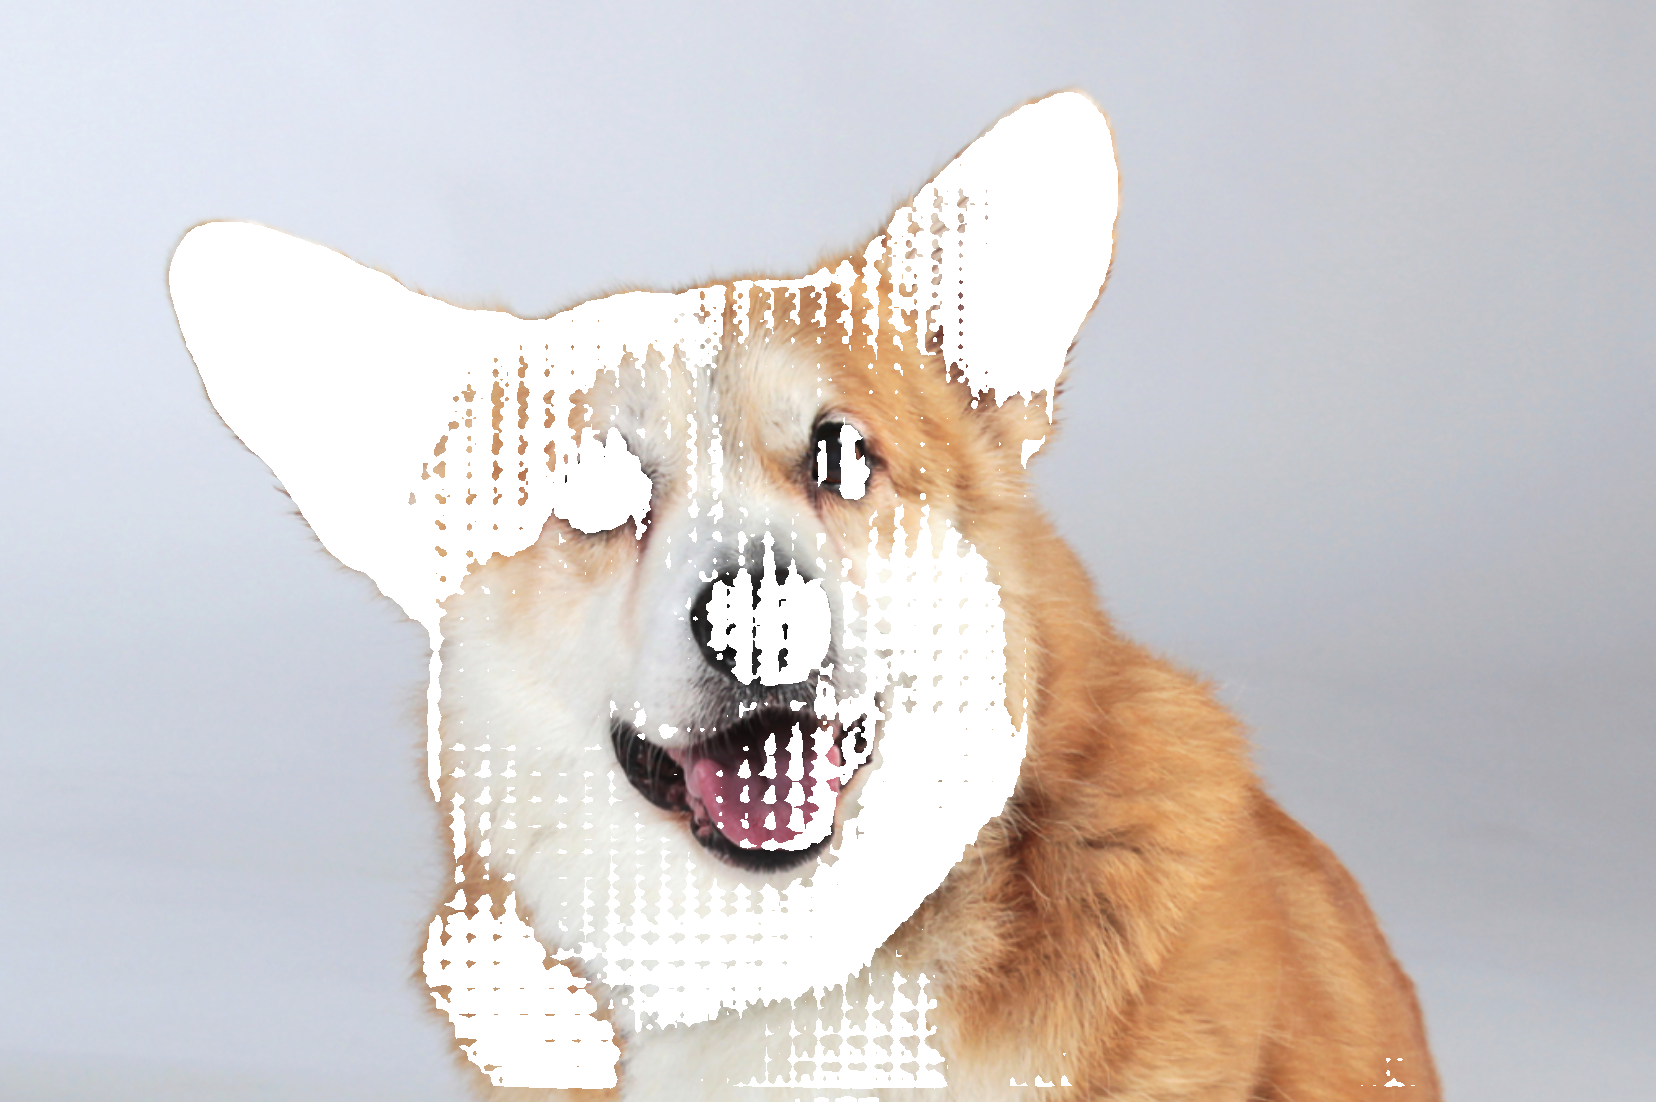
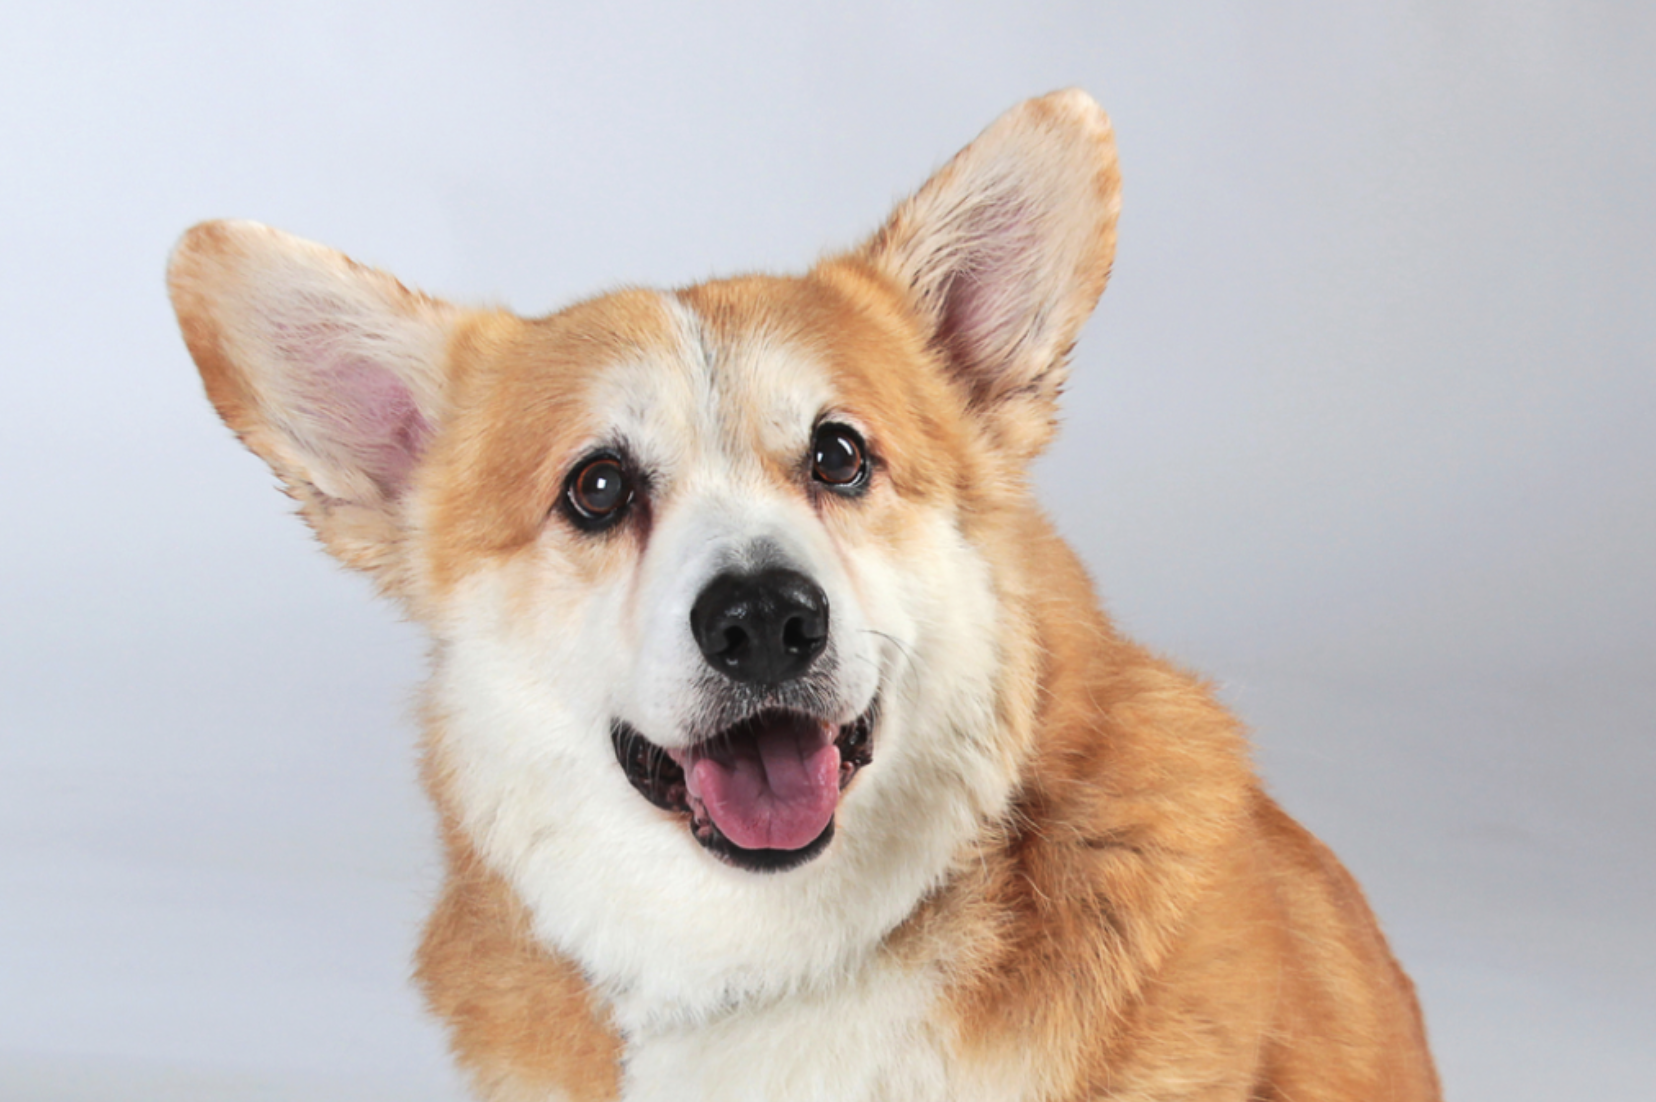
1114 commit

diff --git a/ocr_app/static/img.js b/ocr_app/static/img.js
@@ -3,8 +3,11 @@ const preview = document.getElementById('preview');
 const progress = document.getElementById('progress');
 const loadingText = document.getElementById('loadingText');
 const bar = document.getElementById('bar');
-const resultDiv = document.getElementById('result');
 
+let previewImg = null;
+let uploadedFilename = null;
+
+// 1⃣ 이미지 업로드 → /sam/upload
 form.addEventListener('submit', async (e) => {
     e.preventDefault();
     const fileInput = document.getElementById('file-input');
@@ -15,41 +18,89 @@ form.addEventListener('submit', async (e) => {
 
     // 썸네일 표시
     const reader = new FileReader();
-    reader.onload = e => preview.innerHTML = `<img id="preview-img" src="${e.target.result}" width="200">`;
+    reader.onload = e => {
+        preview.innerHTML = `<img id="preview-img" src="${e.target.result}" width="300" style="cursor:pointer;">`;
+        previewImg = document.getElementById("preview-img");
+        previewImg.addEventListener('click', handleImageClick);
+    };
     reader.readAsDataURL(fileInput.files[0]);
+
+    try {
+        const res = await fetch('/sam/upload', { method: 'POST', body: formData });
+        const data = await res.json();
+        if (!data.success) throw new Error("업로드 실패");
+
+        uploadedFilename = data.filename;
+    } catch (err) {
+        alert("업로드 오류: " + err.message);
+    }
+});
+
+
+// 2⃣ 사용자가 클릭 → /sam/segment 호출
+async function handleImageClick(event) {
+    if (!previewImg) return;
+
+    const rect = previewImg.getBoundingClientRect();
+    const x = event.clientX - rect.left;
+    const y = event.clientY - rect.top;
+
+    const points = [[Math.floor(x), Math.floor(y)]];
+    const labels = [1]; // 클릭한 객체 분리
 
     // 진행바 표시
     progress.style.display = 'block';
-    bar.style.width = '0%';
-    loadingText.textContent = '배경 제거 중... 0%';
     let percent = 0;
+    bar.style.width = '0%';
+    loadingText.textContent = '분할 중... 0%';
     const fakeProgress = setInterval(() => {
         percent += Math.random() * 10;
         if (percent >= 90) percent = 90;
         bar.style.width = percent + '%';
-        loadingText.textContent = `배경 제거 중... ${Math.floor(percent)}%`;
-    }, 600);
+        loadingText.textContent = `분할 중... ${Math.floor(percent)}%`;
+    }, 300);
 
     try {
-        // 서버에 업로드 후 JSON 받기
-        const res = await fetch('/sam/upload', { method: 'POST', body: formData });
-        if (!res.ok) throw new Error("서버 처리 중 오류 발생");
+        const res = await fetch('/sam/segment', {
+            method: 'POST',
+            headers: { 'Content-Type': 'application/json' },
+            body: JSON.stringify({ points, labels })
+        });
+        if (!res.ok) throw new Error("서버 분할 오류");
 
-        const data = await res.json(); // <-- 여기서 JSON으로 받아야 함
+        const blob = await res.blob();
+        const url = URL.createObjectURL(blob);
+
         clearInterval(fakeProgress);
         bar.style.width = '100%';
         loadingText.textContent = '완료! 100%';
 
-        // 썸네일 이미지를 변환된 이미지로 교체
-        const previewImg = document.getElementById('preview-img');
-        if (previewImg) {
-            previewImg.src = data.result_url;
-            // previewImg.width = 400; // 필요하면 크기 조절
-        }
+        previewImg.src = url;
         progress.style.display = 'none';
     } catch (err) {
         clearInterval(fakeProgress);
-        alert("오류: " + err.message);
         progress.style.display = 'none';
+        alert("오류: " + err.message);
+    }
+}
+
+
+
+// 3⃣ 저장 버튼 → /sam/save_final 호출
+saveBtn.addEventListener('click', async () => {
+    if (!uploadedFilename) return alert("저장할 이미지가 없습니다.");
+
+    try {
+        const res = await fetch('/sam/save_final', {
+            method: 'POST',
+            headers: { 'Content-Type': 'application/json' },
+            body: JSON.stringify({ filename: uploadedFilename })
+        });
+        const data = await res.json();
+        if (!data.success) throw new Error("저장 실패");
+
+        alert("저장 완료! URL: " + data.saved_url);
+    } catch (err) {
+        alert("저장 오류: " + err.message);
     }
 });

diff --git a/ocr_app/templates/service/img.html b/ocr_app/templates/service/img.html
@@ -33,6 +33,7 @@
         <div class="form-top">
             <input type="file" id="file-input" name="file" accept="image/*" required>
             <button class="upload-btn" type="submit">업로드</button>
+            <button type="button" id="save-btn">저장</button>
         </div>
         <div id="preview"></div>
     </form>

diff --git a/ocr_app/sam.py b/ocr_app/sam.py
@@ -3,41 +3,57 @@ import cv2
 import numpy as np
 import os
 
+class SAMService:
+    def __init__(self):
+        overrides = dict(
+            conf=0.25,
+            task="segment",
+            mode="predict",
+            imgsz=1024,
+            model="sam_b.pt"
+        )
+        self.predictor = SAMPredictor(overrides=overrides)
+        self.current_image = None
+        self.current_mask = None
 
+    # 이미지 로드
+    def load_image(self, image_path):
+        img_bgr = cv2.imread(image_path)
+        if img_bgr is None:
+            raise ValueError(f"이미지를 읽을 수 없습니다: {image_path}")
 
-def remove_background_with_sam_and_grabcut(image_path, output_path_grabcut,
-                                           output_path_smoothed, output_path_adjusted,
-                                           sam_point, sam_label, blur_kernel_size=(5,5),
-                                           transparency_factor=0.7):
-    # SAM Predictor 초기화 (요청 시점에)
-    overrides = dict(conf=0.25, task="segment", mode="predict", imgsz=1024, model="mobile_sam.pt")
-    predictor = SAMPredictor(overrides=overrides)
-    image_bgr = cv2.imread(image_path)
-    if image_bgr is None:
-        raise ValueError(f"이미지를 읽을 수 없습니다: {image_path}")
+        self.current_image = img_bgr
+        img_rgb = cv2.cvtColor(img_bgr, cv2.COLOR_BGR2RGB)
+        self.predictor.set_image(img_rgb)
 
-    image_rgb = cv2.cvtColor(image_bgr, cv2.COLOR_BGR2RGB)
-    predictor.set_image(image_rgb)
+    # 클릭 기반 SAM segmentation
+    def segment_from_click(self, points, labels):
+        points = np.array(points)
+        labels = np.array(labels)
 
-    input_points = np.array([sam_point])
-    labels = np.array([sam_label])
-    results = predictor(points=[input_points], labels=[labels])
-    sam_mask = results[0].masks.data[0].cpu().numpy().astype(np.uint8)
+        results = self.predictor(points=[points], labels=[labels])
+        mask = results[0].masks.data[0].cpu().numpy().astype(np.uint8)
 
-    # 알파 채널 적용
-    result_rgba = cv2.cvtColor(image_bgr, cv2.COLOR_BGR2BGRA)
-    result_rgba[:, :, 3] = (1 - sam_mask) * 255  # mask 반전
+        self.current_mask = mask
+        return mask
 
-    # PNG로 저장
-    cv2.imwrite(output_path_grabcut, result_rgba)
+    # 마스크를 알파 채널로 적용하여 PNG 투명 배경 생성
+    def export_png_with_alpha(self, output_path):
+        if self.current_image is None or self.current_mask is None:
+            raise ValueError("이미지 또는 마스크가 준비되지 않았습니다.")
 
-    # 가우시안 블러
-    blurred_alpha = cv2.GaussianBlur(result_rgba[:, :, 3], blur_kernel_size, 0)
-    smoothed_img = result_rgba.copy()
-    smoothed_img[:, :, 3] = blurred_alpha
-    cv2.imwrite(output_path_smoothed, smoothed_img)
+        rgba = cv2.cvtColor(self.current_image, cv2.COLOR_BGR2BGRA)
+        rgba[:, :, 3] = (self.current_mask * 255).astype(np.uint8)
 
-    # 투명도 조절
-    adjusted_img = result_rgba.copy()
-    adjusted_img[:, :, 3] = (adjusted_img[:, :, 3] * transparency_factor).astype(np.uint8)
-    cv2.imwrite(output_path_adjusted, adjusted_img)
+        cv2.imwrite(output_path, rgba)
+        return output_path
+    
+    # 최종 PNG 서버 저장용 함수
+    def save_final_png(self, filename):
+        output_dir = "ocr_app/static/images"
+        os.makedirs(output_dir, exist_ok=True)
+
+        output_path = os.path.join(output_dir, filename)
+        self.export_png_with_alpha(output_path)
+
+        return output_path

diff --git a/ocr_app/sam_routes.py b/ocr_app/sam_routes.py
@@ -1,47 +1,67 @@
 from flask import Blueprint, request, jsonify, current_app
 import os
 from werkzeug.utils import secure_filename
-from .sam import remove_background_with_sam_and_grabcut
+from .sam import SAMService
+from flask import send_file
+import io
+from PIL import Image
+import numpy as np
+
 
 sam_bp = Blueprint('sam_bp', __name__, url_prefix='/sam')
+sam_service = SAMService()  # 한 번만 초기화
 
 ALLOWED_EXTENSIONS = {'png', 'jpg', 'jpeg', 'gif'}
 
 def allowed_file(filename):
     return '.' in filename and filename.rsplit('.',1)[1].lower() in ALLOWED_EXTENSIONS
 
+#이미지 업로드 → predictor.set_image() 준비
 @sam_bp.route('/upload', methods=['POST'])
 def sam_upload():
     file = request.files.get('file')
-    if not file or not allowed_file(file.filename):
-        return jsonify({'error':'올바른 이미지 파일이 아닙니다.'}), 400
-    
+    if not file:
+        return jsonify({'error': '파일이 없습니다.'}), 400
+
     filename = secure_filename(file.filename)
     save_folder = os.path.join(current_app.static_folder, 'uploads')
     os.makedirs(save_folder, exist_ok=True)
     filepath = os.path.join(save_folder, filename)
     file.save(filepath)
 
-    # SAM 처리 후 저장 경로도 원본 파일명 그대로
-    output_path = filepath  # grabcut_ 없이 덮어쓰기
-    output_smooth = os.path.join(save_folder, f"smooth_{filename}")
-    output_transparency = os.path.join(save_folder, f"transparency_{filename}")
+    # SAM 이미지 준비
+    sam_service.load_image(filepath)
 
-    # SAM 점 프롬프트와 레이블 (JS에서 나중에 받을 수도 있음)
-    sam_point = [300,400]
-    sam_label = 1
+    return jsonify({
+        'success': True,
+        'filename': filename,
+        'preview_url': f"/static/uploads/{filename}"
+    })
 
-    try:
-        remove_background_with_sam_and_grabcut(
-            filepath,
-            output_path,
-            output_smooth,
-            output_transparency,
-            sam_point,
-            sam_label
-        )
-    except Exception as e:
-        return jsonify({'error': f'SAM 처리 실패: {str(e)}'}), 500
-    # 웹에서 접근 가능한 URL 반환
-    result_url = f"/static/uploads/{filename}"  # 그대로 사용
-    return jsonify({'filename': filename, 'result_url': result_url})
+# 사용자가 좌표를 보내면 sam마스크 png 반환
+@sam_bp.route('/segment', methods=['POST'])
+def sam_segment():
+    data = request.json
+    points = data.get("points")
+    labels = data.get("labels")
+
+    mask = sam_service.segment_from_click(points, labels)
+
+    # mask → PNG
+    mask_img = Image.fromarray((mask * 255).astype(np.uint8))
+    buf = io.BytesIO()
+    mask_img.save(buf, format='PNG')
+    buf.seek(0)
+
+    return send_file(buf, mimetype='image/png')
+
+# 프론트에서 저장 버튼 누르면 서버에 완성png 저장
+@sam_bp.route('/save_final', methods=['POST'])
+def sam_save_final():
+    filename = request.json.get('filename', 'result.png')
+    saved_path = sam_service.save_final_png(filename)
+
+    return jsonify({
+        'success': True,
+        'saved_url': f"/static/images/{filename}"
+    })

diff --git a/ocr_app/auth.py b/ocr_app/auth.py
@@ -22,8 +22,10 @@ def login():
             flash('아이디 또는 비밀번호가 잘못되었습니다.', 'error')
     return render_template('login.html')
 
+
 @auth.route('/logout')
 def logout():
     session.pop('username', None)
     flash('로그아웃 되었습니다.', 'info')
     return redirect(url_for('auth.login'))
+
